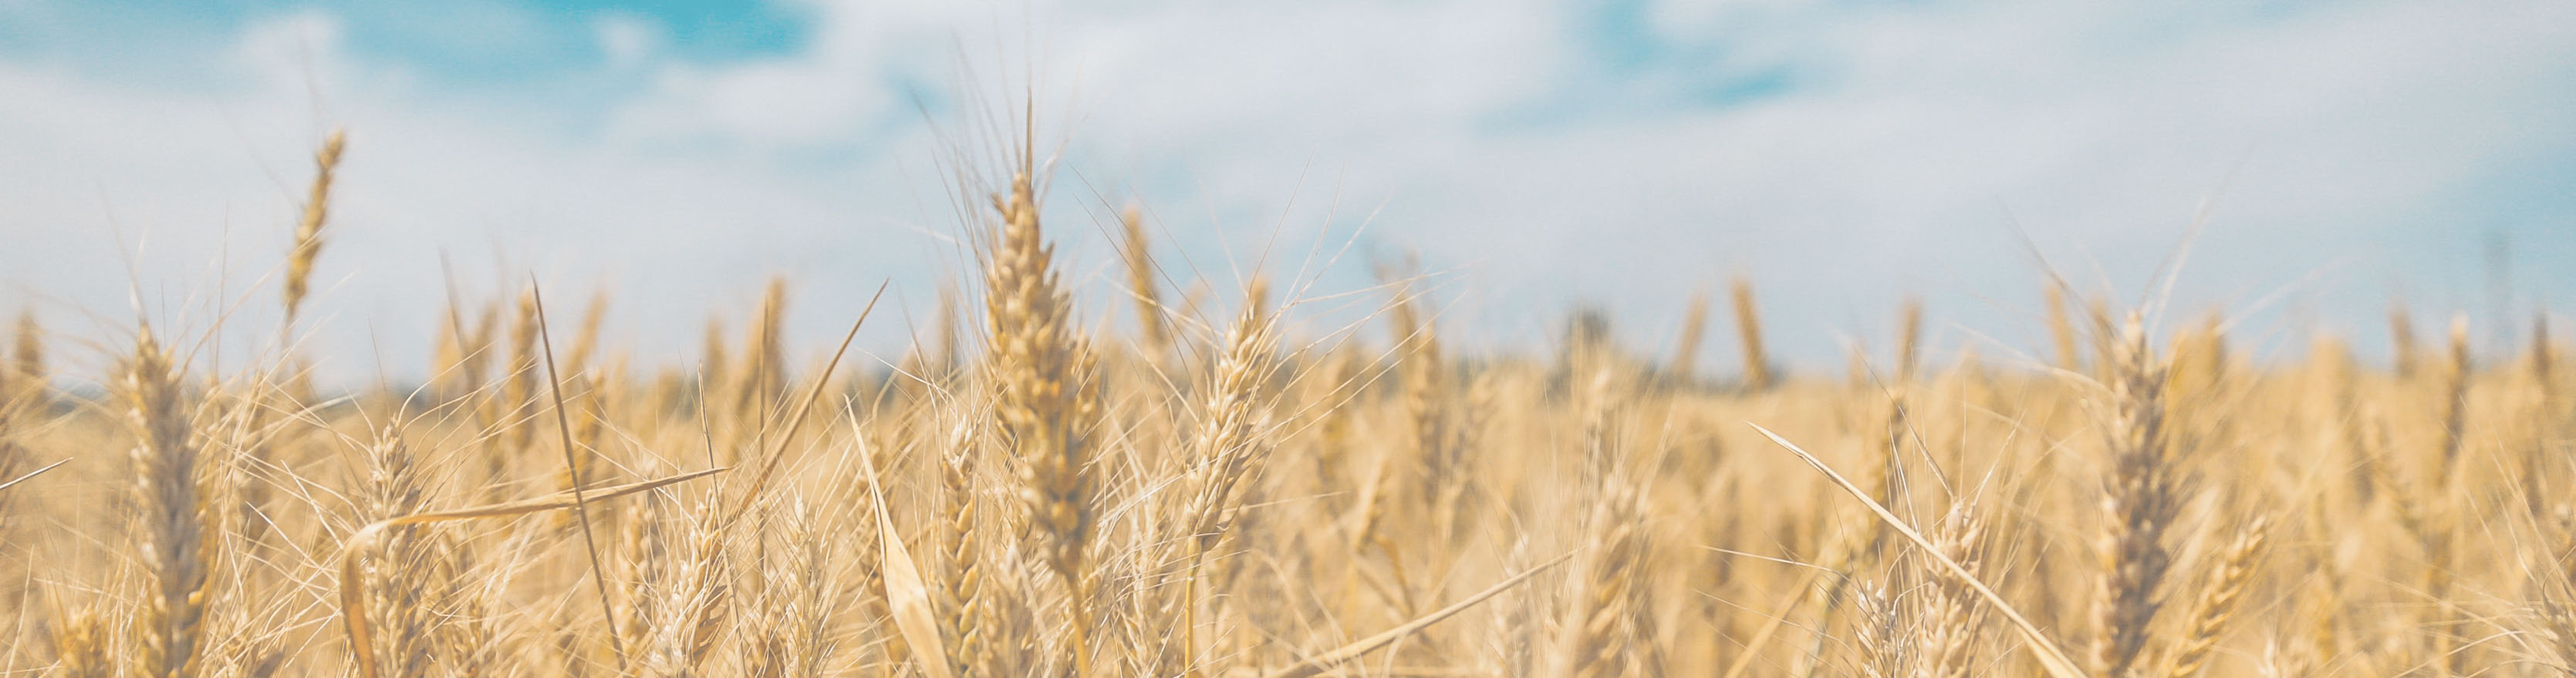
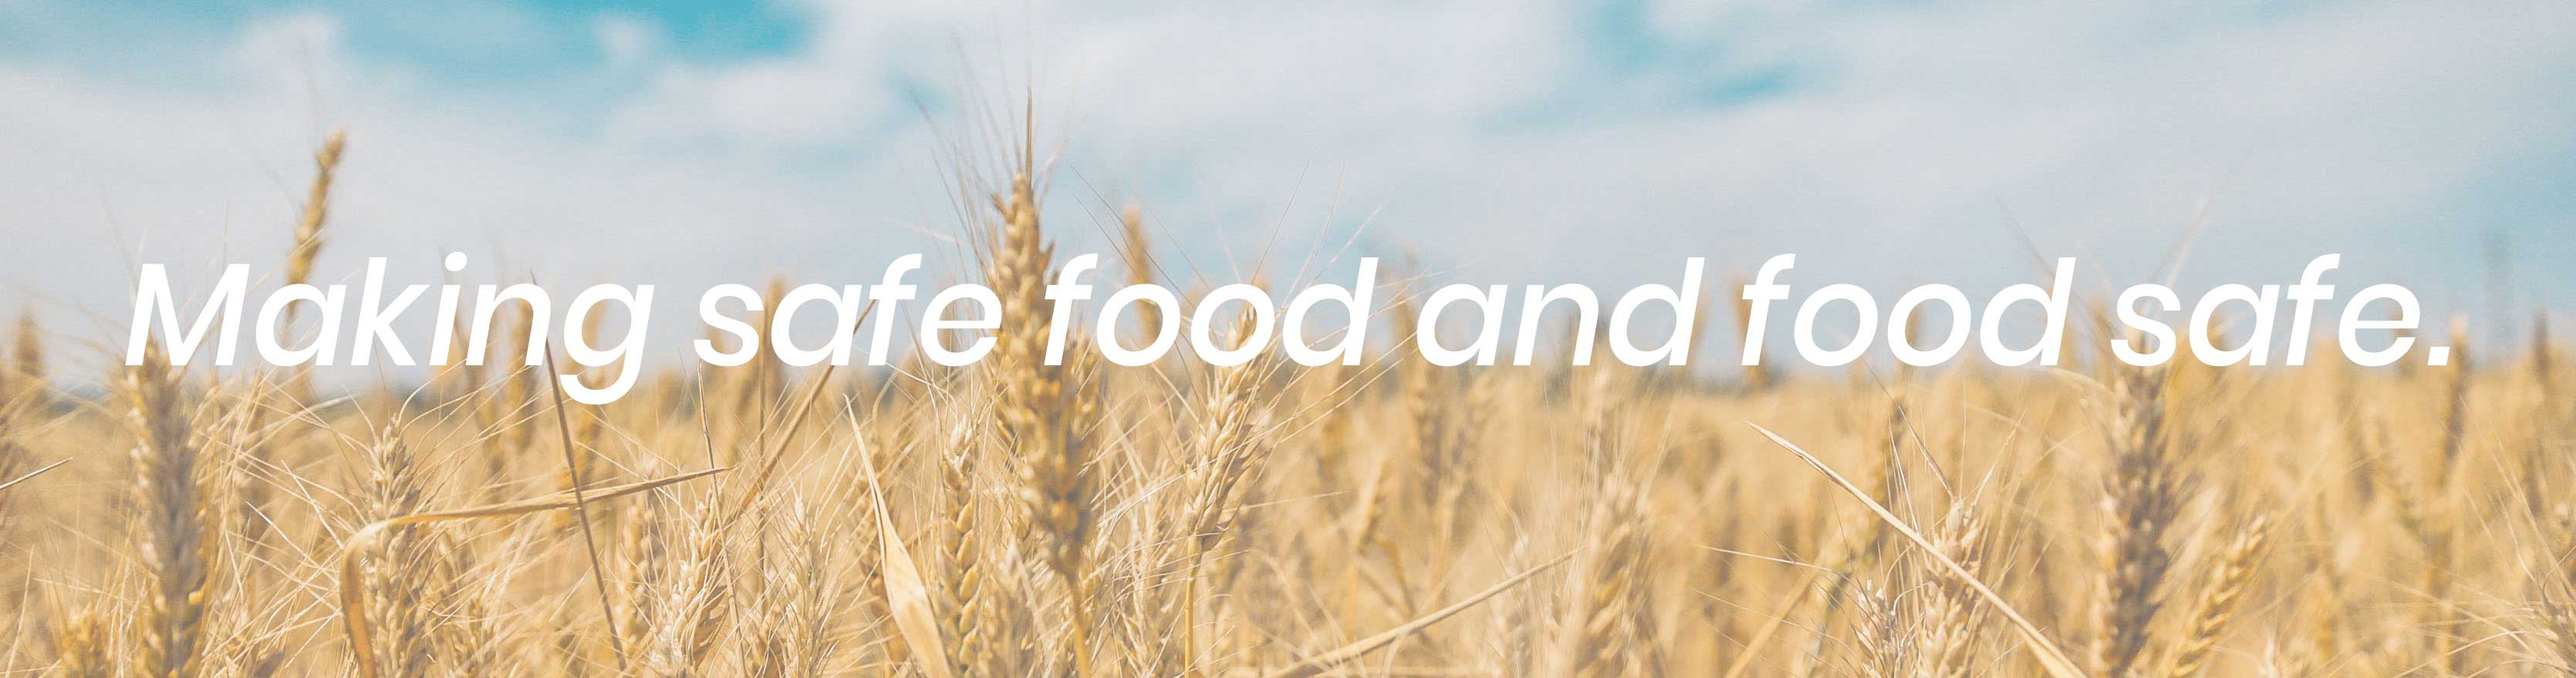
substituted web optimized photos for what we had

Changed region(s): [[0.0311, 0.3682, 0.9656, 0.6136]]

diff --git a/src/Components/Accolades/Accolades.js b/src/Components/Accolades/Accolades.js
@@ -27,7 +27,7 @@ const Accolades = () => {
         </article>
       </section>
       <div className="tagline-container">
-        <p id="tagline"><em>Making safe food and food safe.</em></p>
+        {/* <p id="tagline"><em>Making safe food and food safe.</em></p> */}
         <img src={taglineImage} id="accolades-splash" alt="field of grains" />
       </div>
     </section>
